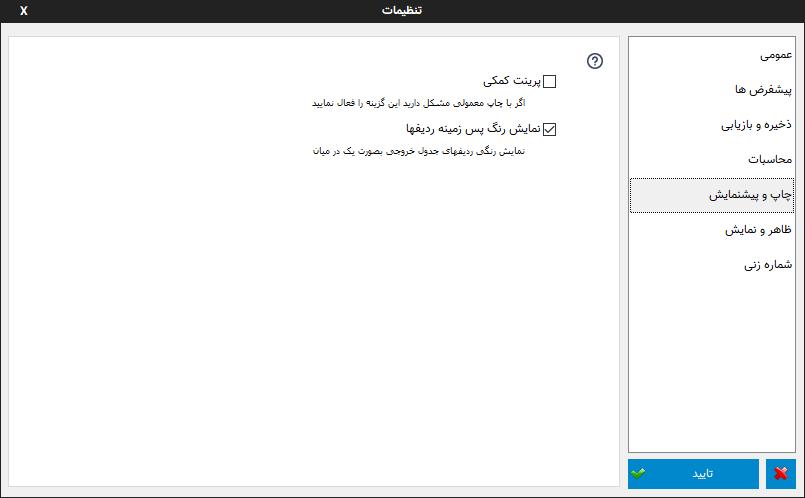
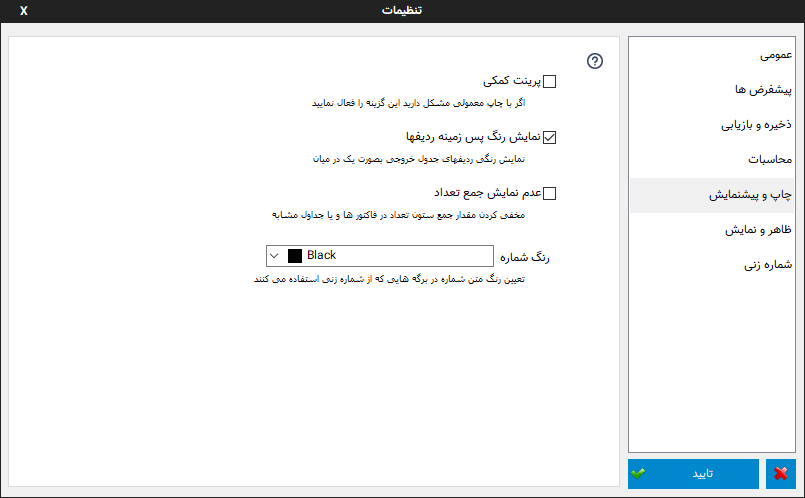
2.4_590

Changed region(s): [[0.3727, 0.241, 0.6832, 0.3313], [0.3106, 0.4819, 0.6832, 0.5723], [0.3416, 0.3614, 0.6832, 0.4518]]

diff --git a/docs/source/conf.py b/docs/source/conf.py
@@ -24,7 +24,7 @@ copyright = u'2019, Mohsensoft'
 author = u'Mohsen Bahraminejad, Mohammad reza khalifeh'
 
 # The short X.Y version
-version = u'2.3'
+version = u'2.4'
 # The full version, including alpha/beta/rc tags
 release = u'.rst'
 

diff --git a/docs/source/faq.rst b/docs/source/faq.rst
@@ -32,6 +32,18 @@
 
 سپس گزینه Use native digits را اگر از تنظیمات کامل فارسی استفاده می کنید روی Context و الا روی National قرار دهید.
 
+| **تنظیمات صحیح اعداد**
+
+.. image:: images/win_region_adv_number.png
+    :alt: تنظیمات صحیح اعداد ویندوز
+    :align: center
+
+| **تنظیمات صحیح پول**
+
+.. image:: images/win_region_adv_currency.png
+    :alt: تنظیمات صحیح پول ویندوز
+    :align: center
+
 .. _faq-install-page:
 
 2. برگه ای را دانلود کرده ام،چطور نصب و استفاده کنم؟
@@ -62,13 +74,21 @@
 
 6. بعد از باز کردن فایل از ویرایش قبلی کلمات فارسی بهم ریخته است.
 ---------------------------------------------------------------------
-این مورد در قسمت مهاجرت از نسخه قبلی توضیح داده شده است.
+این مورد در قسمت " :ref:`مهاجرت از نسخه های قبلی<from-old-version>` " توضیح داده شده است.
+
 
 .. _faq-empty-print:
 
 7. وقتی دستور چاپ را صادر میکنم در صفحه چاپ شده هیچ نوشته ای وجود ندارد و یا متنها کامل نیستند.
 ---------------------------------------------------------------------------------------------------
-برای رفع این مشکل کافیست گزینه " پرینت کمکی " را در قسمت تنظیمات فعال نمایید.
+| اگر به تازگی نرم افزار را نصب کرده اید با یکبار ریست سیستم مشکل برطرف خواهد شد.
+
+| اگر مشکل هنوز ادامه داشت فونت های زیر را دانلود و نصب نمایید :
+
+http://dl.mohsensoft.com/download/files/MSNazanin.zip
+http://dl.mohsensoft.com/download/files/MSYekan.zip
+
+| و در نهایت گزینه " :ref:`پرینت کمکی<setting-print>` " را در قسمت تنظیمات فعال نمایید.
 
 .. _faq-move-output:
 

diff --git a/docs/source/window-cust.rst b/docs/source/window-cust.rst
@@ -21,3 +21,10 @@
 
 | **ورود اطلاعات از فایل اکسل :** توسط این گزینه میتوانید لیست مشتری/متقاضی های مورد نظرتان که در یک فایل اکسل ذخیره شده است را وارد نرم افزار نمایید. برای اطلاعات بیشتر در مورد نحوه کار به قسمت :ref:`ورود اطلاعات از فایل اکسل<import-from-excel>` مراجعه نمایید.
 
+| **صادر کردن اطلاعات :** از این گزینه برای خروجی گرفتن از اطلاعات موجود استفاده نمایید، موارد کاربرد آن میتواند شامل خروجی گرفتن لیست شماره تلفن همراه مشتریان باشد. پس از انتخاب این گزینه پنجره زیر باز خواهد شد :
+
+.. image:: images/window_cust_export.png
+    :alt: خروجی از پنجره مشتری/متقاضی
+    :align: center
+
+| در این پنجره لیستی از فیلدهایی که میتوانید از آنها خروجی بگیرید نمایش داده می شود، هر تعداد فیلد مورد نیازتان را انتخاب کنید و "تایید" را بفشارید تا محل ذخیره خروجی از شما پرسیده شود و در نهایت فایل خروجی با پسوند CSV ذخیره خواهد شد.

diff --git a/docs/source/changes-log.rst b/docs/source/changes-log.rst
@@ -6,6 +6,29 @@
 تغییرات ویرایش ها
 ==========================
 
+**ویرایش 4.3:**
+
+* افزوده شدن امکان خروجی گرفتن از اطلاعات مشتری/متقاضی ها. |cust|
+* افزوده شدن امکان نوشتن متون پیشرفته در فیلدهای مشخصات.
+* افزوده شدن امکان تغییر رنگ مقدار شماره. |settings_print|
+* اضافه شدن امکان مخفی کردن مقدار جمع ستون تعداد. |settings_print|
+* اصلاح و توسعه محاسبه و نمایش اعداد تا 10 رقم اعشار. |settings_calc|
+* افزودن امکان ورود و محاسبه اعداد اعشار در انبار و تعیین سفارش.
+* اصلاح برخی مشکلات در ذخیره شدن تنظیمات.
+* اصلاح خروجی اکسل.
+
+.. |cust| raw:: html
+
+    <a class="more_info" href="https://mohsensoft.com/docs/faktor/window-cust.html" target="_blank"></a>
+
+.. |settings_print| raw:: html
+
+    <a class="more_info" href="https://mohsensoft.com/docs/faktor/window-settings.html#setting-print" target="_blank"></a>
+
+.. |settings_calc| raw:: html
+
+    <a class="more_info" href="https://mohsensoft.com/docs/faktor/window-settings.html#setting-calc" target="_blank"></a>
+
 **ویرایش 4.2:**
 
 * رابط کاربری جدید و بهینه شده.

diff --git a/docs/source/window-settings.rst b/docs/source/window-settings.rst
@@ -88,7 +88,8 @@
 
 | **پرینت کمکی :** این گزینه برای کاربرانی مناسب می باشد که با پرینت کردن برگه ها مشکلاتی نظیر : چاپ نکردن قسمتی از یک متن و یا پرینت صفحه ای خالی از متن را دارند .
 | **نمایش رنگ پس زمینه ردیفها :** برای حذف رنگ پس زمینه ردیفهای فاکتور که معمولا بصورت یک در میان برای تمایز و تشخیص بهتر ردیفها کشیده می شوند از این گزینه استفاده کنید. توجه کنید که این گزینه در برگه های جدید که از این حالت پشتیبانی می کنند قابل انجام است.
-
+| **عدم نمایش جمع تعداد :** در صورتی که به نمایش جمع ستون تعداد در برگه هایی نظیر فاکتور نیاز ندارید و یا نمایش آن بخاطر مواردی نظیر عدم یکی بودن واحد ها معنیی ندارد میتوانید این گزینه را فعال نمایید.
+| **رنگ شماره :** توسط این گزینه میتوانید رنگ مقدار شماره در برگه هایی که این فیلد را دارند تعیین نمایید.
 
 .. _setting-ui:
 

diff --git a/docs/source/backup.rst b/docs/source/backup.rst
@@ -6,6 +6,7 @@
 پشتیبان گیری
 =================
 | با استفاده از این ابزار می توانید عملیات ساخت نسخه پشتیبان از فایل های اصلی برنامه و همچنین بازگرداندن آنها را انجام دهید.
+| این عملیات از طریق منوی اصلی در گوشه سمت چپ و بالای پنجره اصلی قابل دسترس می باشد.
 
 
 .. image:: images/backup.png
@@ -27,3 +28,5 @@
 
 
 | **پایان :** در صورت موفقیت آمیز بودن عملیات پشتیبان گیری پیامهای بالا نمایش داده می شود.
+
+.. note:: ممکن است با اجرای فایل پشتیبان بصورت مستقیم و بدون اجرای نرم افزار و انتخاب آن از منوی اصلی با خطا مواجه شوید، در این حالت ابتدا نرم افزار را اجرا کنید و از منوی اصلی وارد قسمت پشتیبانگیری شوید و از آنجا فایل مورد نظر را انتخاب نمایید.
